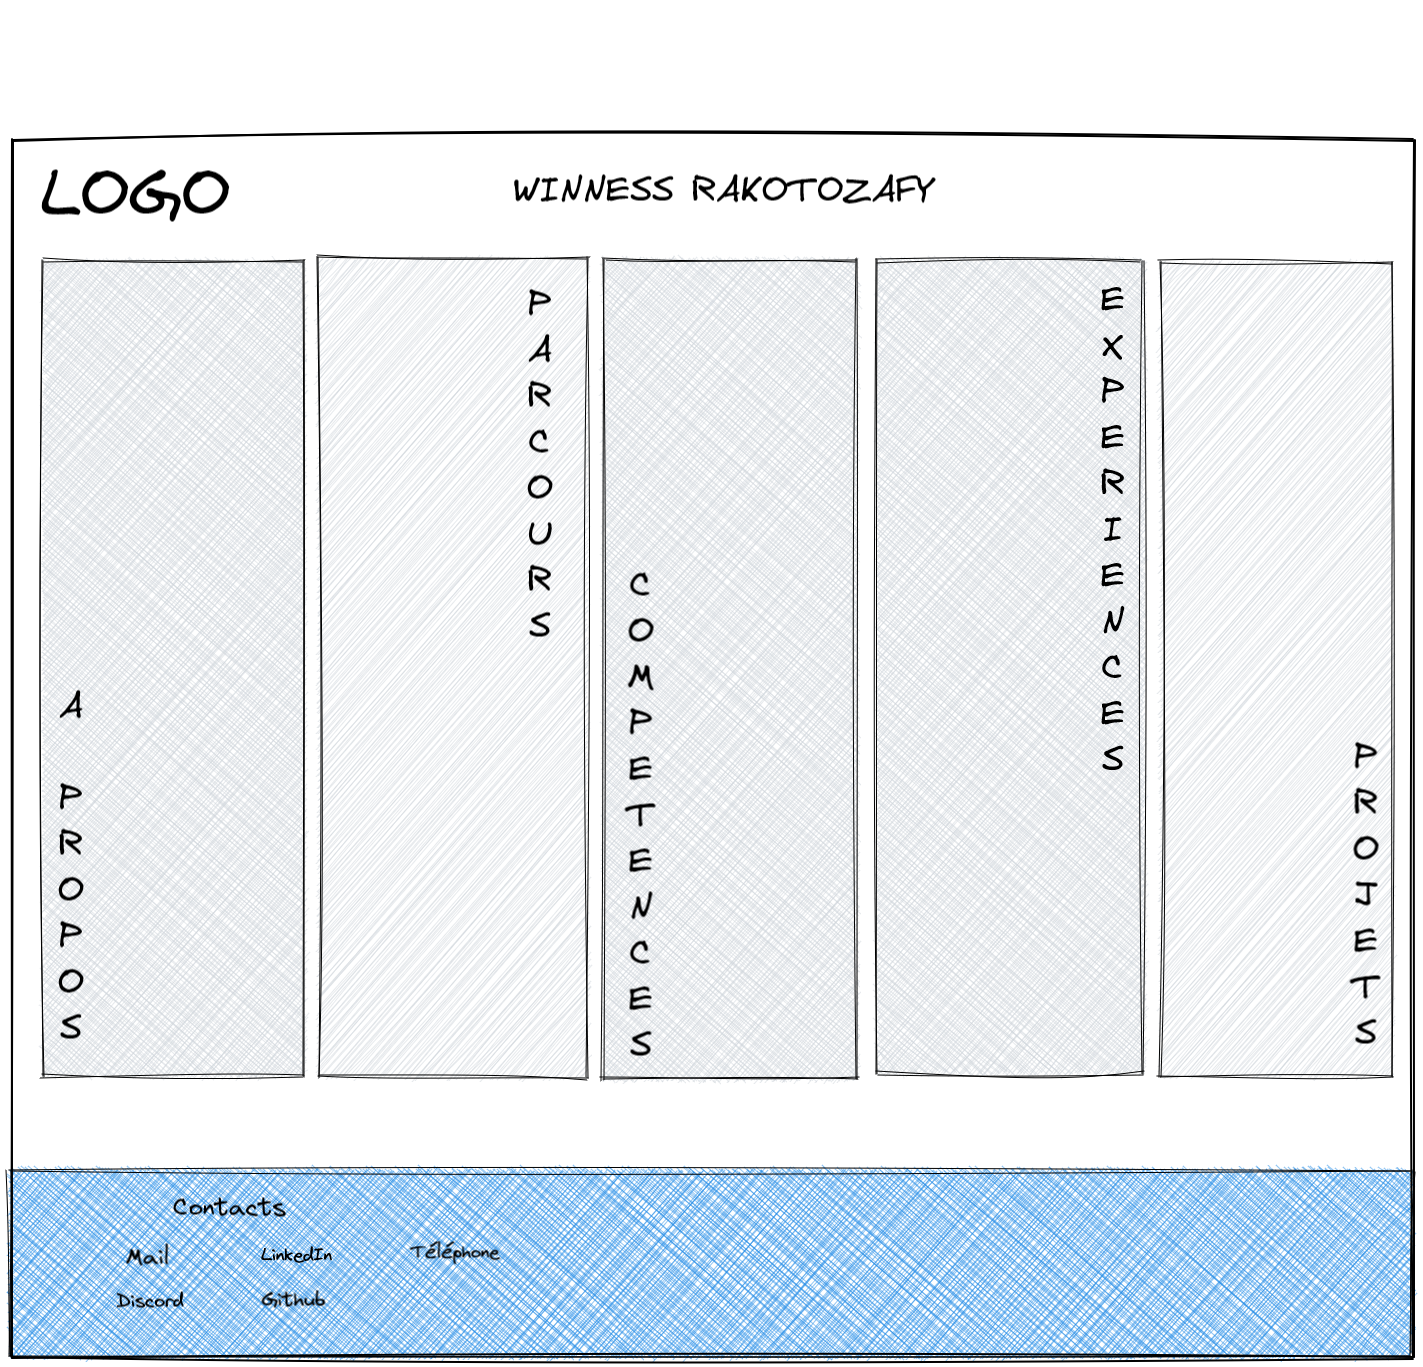
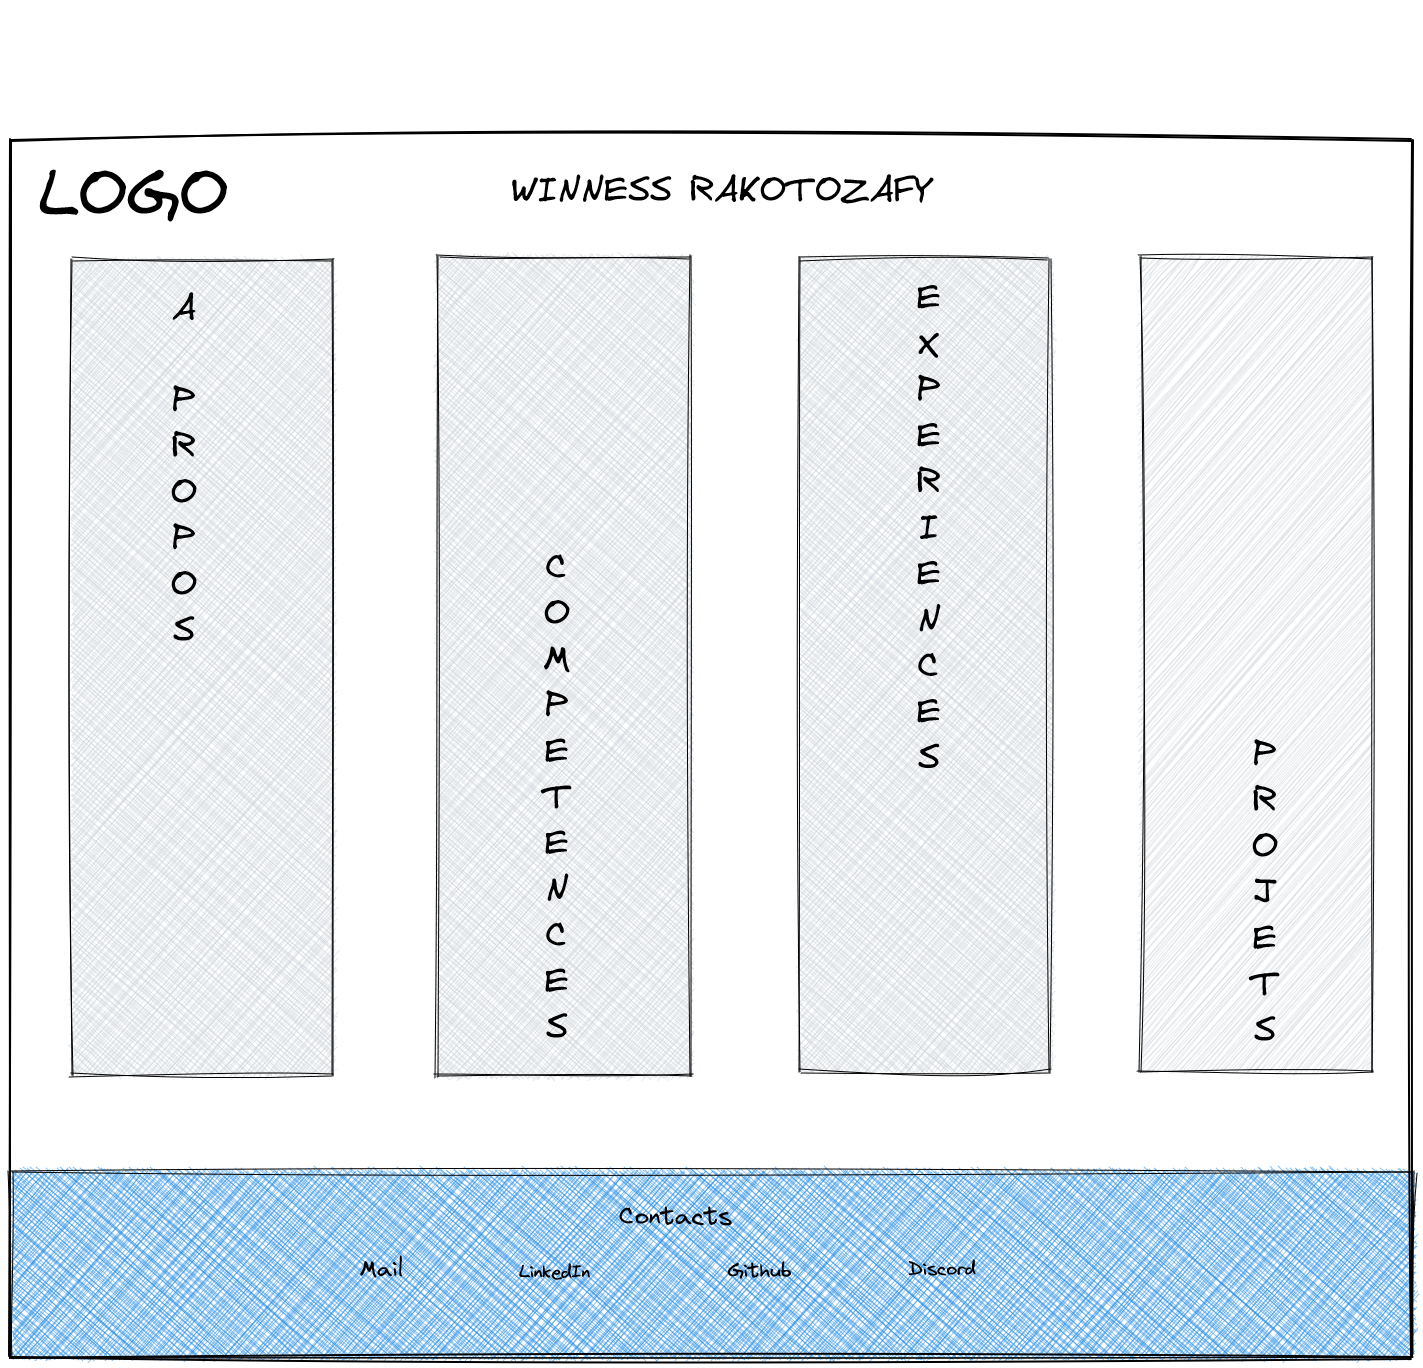
Commit du Wed Dec  1 11:32:11     2021

diff --git a/HTML/Mise_en_page.html b/HTML/Mise_en_page.html
@@ -8,20 +8,32 @@
 </head>
 
 <body>
-    <div class="menu">
-        <ul>
-            <li class="propos"> A propos </li>
-            <li class="projets"> Projets </li>
-            <li class="contact"> Contacts </li>
-        <ul>
-    </div>
-
+    
     <div class="logoWR">
         <img src="../CSS/images/My_Logo.png">
     </div>
     <h1> Winness RAKOTOZAFY </h1>
         <p id=accroche> <I> "Phrase d'accroche bien pensé"</I> </p>
     
-    
+    <div class="menu">
+        <ul>
+            <li class="propos"> A PROPOS </li>
+            <li class="parcours"> PARCOURS</li>
+            <li class="competences"> COMPETENCES </li>
+            <li class="experiences"> EXPERIENCES </li>
+            <li class="projets"> PROJETS </li>
+        <ul>
+    </div>
+
+
 </body>
+
+<footer>
+    <h4> Contacts </h4>
+        <div class="contact">
+            <ul>
+                <li class="Mail"> Mail </li>
+                <li class="LinkedIn"> LinkedIn </li>
+                <li class="Discord"
+</footer>
 

diff --git a/CSS/style/Styles.css b/CSS/style/Styles.css
@@ -29,7 +29,7 @@ div li {
     border-right: 1px solid gray;
     text-align: center;
     line-height: 40px;
-    color:#404040;
+    color: aliceblue;
     font-family: 'Adventure';
 }
 
